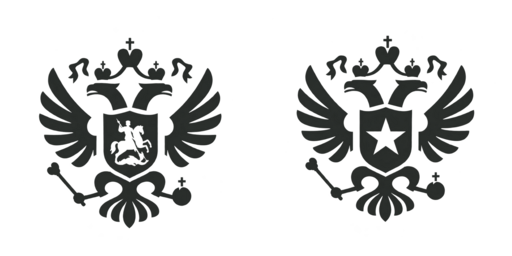
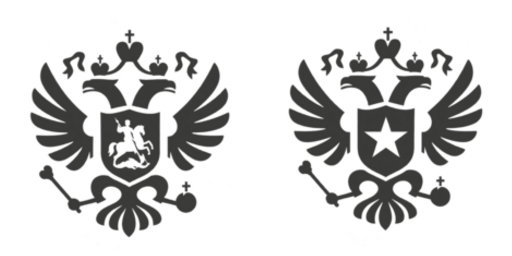
Выровнять эмблемы МВД и Минобороны

Changed region(s): [[0.0312, 0.125, 0.4688, 0.9375], [0.5625, 0.0938, 0.9688, 0.9062]]

diff --git a/templates/news.html b/templates/news.html
@@ -502,12 +502,12 @@
             background-image:url("/static/source-emblems-security.png")
         }
         .source-emblem-main.source-emblem-security{
-            background-size:88px 44px;
-            background-position:calc(2px - var(--security-x) * 44px) center
+            background-size:100px 50px;
+            background-position:calc(-1px - var(--security-x) * 50px) center
         }
         .source-emblem-compact.source-emblem-security{
-            background-size:48px 24px;
-            background-position:calc(var(--security-x) * -24px) center
+            background-size:54px 27px;
+            background-position:calc(-1.5px - var(--security-x) * 27px) center
         }
         .source-row.active .source-emblem-compact:after{
             content:"✓";position:absolute;right:-3px;bottom:-2px;width:11px;height:11px;

diff --git a/test/test_web_templates.py b/test/test_web_templates.py
@@ -37,6 +37,8 @@ class WebTemplateTests(unittest.TestCase):
             'class="source-emblem source-emblem-main',
             'class="source-emblem source-emblem-compact',
             'source-emblems-security.png',
+            'background-size:100px 50px',
+            'background-size:54px 27px',
             'class="news-summary"',
             'Найдено {{page_total_display}} материалов',
             '<svg viewBox="0 0 20 24" aria-hidden="true">',

diff --git a/config.py b/config.py
@@ -1,4 +1,4 @@
-PROJECT_VERSION = "2026.08.17.16.48"
+PROJECT_VERSION = "2026.08.17.16.49"
 
 KEYWORDS = [
     "Курил", "Сахалин", "Владивосток", "Хабаровск", "Камчатка", "Дальний Восток",
